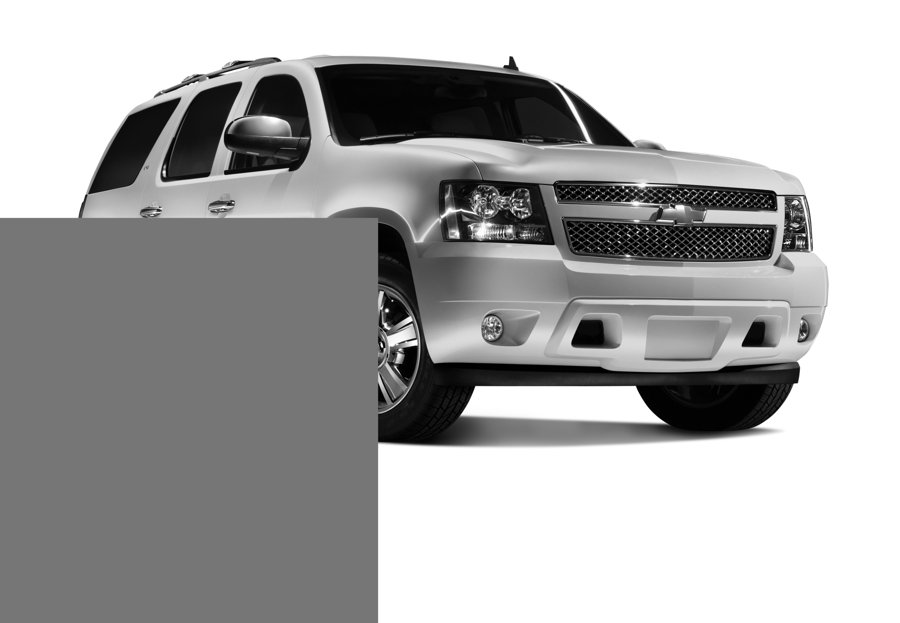
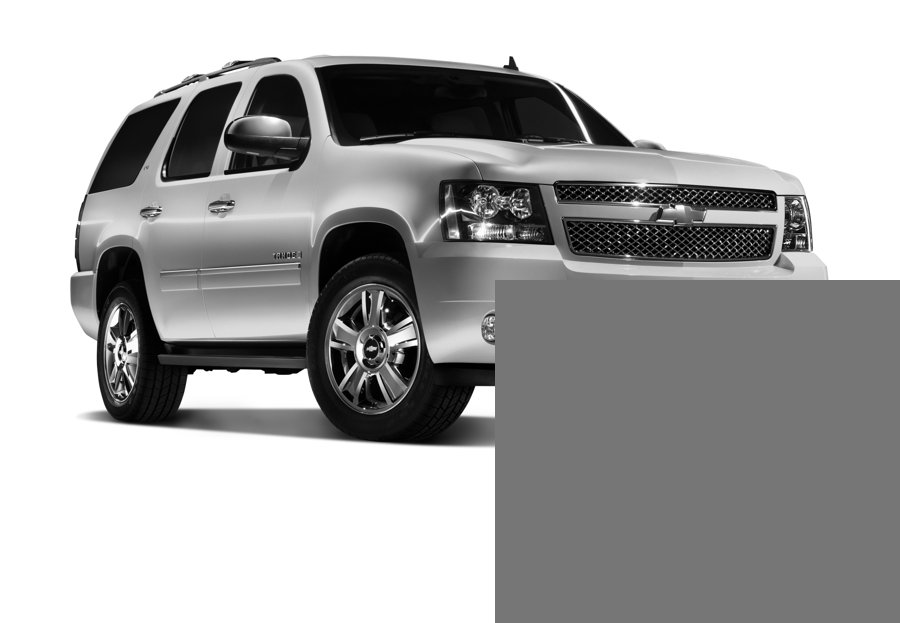
feat: fine-tuned detector shipped (IoU 0.954, mAP50 0.999); better occlusion demo samples incl. ambiguous; docs

diff --git a/frontend/src/components/Uploader.tsx b/frontend/src/components/Uploader.tsx
@@ -12,6 +12,7 @@ const SAMPLES = [
   { file: "sonata-hybrid.jpg", label: "Hybrid that looks like a petrol car" },
   { file: "night.jpg", label: "Taken at night" },
   { file: "hidden.jpg", label: "Partly hidden" },
+  { file: "ambiguous.jpg", label: "Hybrid or not? Rear hidden" },
   { file: "electric.jpg", label: "Electric car" },
   { file: "ambiguous-audi-s5.jpg", label: "Look-alike trim: S5 or A5?" },
   { file: "unknown-tata-nexon.jpg", label: "Indian car outside the 196 models" },
@@ -111,7 +112,7 @@ export default function Uploader({ onPick, onLive }: Props) {
 
       <div className="lg:col-span-2">
         <h2 className="font-display text-2xl font-semibold">No photo to hand? Try one of these</h2>
-        <ul className="mt-3 grid grid-cols-2 gap-3 sm:grid-cols-4 lg:grid-cols-7">
+        <ul className="mt-3 grid grid-cols-2 gap-3 sm:grid-cols-4">
           {SAMPLES.map((s) => (
             <li key={s.file}>
               <button

diff --git a/docs/design.md b/docs/design.md
@@ -94,7 +94,7 @@ flowchart LR
 | Choice | Why |
 |---|---|
 | **ConvNeXt-Small**, ImageNet-22k pretrained, fine-tuned at 384 px | Strong fine-grained transfer; 50 M parameters, 302 ms on 2 CPU threads after INT8. ConvNeXt-Tiny (28 M) was trained first: 94.18% vs 94.55% top-1, 88.3% vs 96.7% unknown cars caught |
-| **YOLO11s** COCO-pretrained (car/bus/truck) | Stanford images are single-vehicle, so a pretrained detector already localises well; no labelled crash data to fine-tune on |
+| **YOLO11s**, COCO-pretrained then fine-tuned on the Stanford **train** boxes (one class) | Mean IoU 0.886 -> 0.954, mAP@0.5 0.892 -> 0.999, mAP@0.5:0.95 0.825 -> 0.941 on the test split; end-to-end top-1 with detector crops 95.0% -> 95.7% (300-photo check). Trade-off: its tighter boxes can stop at an occluder, so with 30% of the vehicle hidden end-to-end accuracy was 73.3% vs 74.7% and 8 vs 6 of 70 hybrids/EVs were missed (within noise at this size, reported honestly) |
 | **Classical baseline**: HOG + HSV histogram + LBP + aspect ratio -> PCA(256) -> logistic regression | Required comparison; uses exactly the same feature code as the app |
 | **Temperature scaling** on validation | Raw softmax is over/under-confident; calibrated probabilities make thresholds meaningful |
 | **kNN embedding distance** for unknown cars | Softmax confidence stays high on unseen models (e.g. Indian cars); distance to known cars does not |
@@ -136,12 +136,16 @@ high-voltage miss / false-alarm rates, classical vs deep vs hybrid, ablation, mo
    answer ("Audi A5/S5 family") is reported when the year cannot be separated.
 3. **Rebadged twins**: *Dodge Sprinter Cargo Van 2009* taken for *Mercedes-Benz Sprinter Van 2012* (8) - the same van
    sold under two brands. A badge-level detail the network rarely sees at 384 px.
-4. **Degraded photos** (robustness table): strong blur drops top-1 to 40%, a 40 px vehicle to 53%, and hiding 45% of
+4. **Occlusion that hides the body style**: a Chevrolet Tahoe Hybrid with its upper rear hidden is taken for a
+   *Chevrolet Avalanche* (98%) and the high-voltage warning does not fire - the two share the same front end, and the
+   fine-tuned detector's box stops at the occluder. With the front hidden instead, the same SUV is still identified as
+   the Tahoe Hybrid (65%) with the warning on. This is the clearest reason the app always says "confirm with VIN or plate".
+5. **Degraded photos** (robustness table): strong blur drops top-1 to 40%, a 40 px vehicle to 53%, and hiding 45% of
    the vehicle to 66%. The quality checks flag these photos ("Blurry", "Low resolution") so the low confidence is
    explained rather than hidden.
-5. **Same body, different powertrain**: Hyundai Sonata Sedan vs Sonata Hybrid 2012. The summed high-voltage
+6. **Same body, different powertrain**: Hyundai Sonata Sedan vs Sonata Hybrid 2012. The summed high-voltage
    probability cuts missed hybrids/EVs from 4.3% (top-1 label) to 1.2%.
-6. **Out-of-distribution cars**: on 60 freely licensed Wikimedia Commons photos of 30 models the network never saw
+7. **Out-of-distribution cars**: on 60 freely licensed Wikimedia Commons photos of 30 models the network never saw
    (Indian models such as Swift, Nexon, Creta, Thar, Innova; post-2012 EVs such as Tesla Model 3/Y, Ioniq 5, ID.4),
    **96.7%** were answered "unknown" (58 of 60) while 8.3% of known test cars are wrongly flagged. The two misses are
    look-alikes: Mahindra Thar taken for Jeep Wrangler (the Thar is styled on it) and Renault Kwid for Nissan Juke.

diff --git a/frontend/public/samples/CREDITS.md b/frontend/public/samples/CREDITS.md
@@ -7,7 +7,13 @@
 
 Both come from Wikimedia Commons.
 
-## Older samples: source not recorded
+## Samples from the Stanford Cars test split
 
-`clear.jpg`, `electric.jpg`, `hidden.jpg`, `night.jpg` and `sonata-hybrid.jpg` were added earlier without a record of where they
-came from. Whoever added them should fill this in, or replace them, before the repository is shown publicly.
+`clear.jpg` (BMW M3 Coupe 2012), `sonata-hybrid.jpg` (Hyundai Sonata Hybrid Sedan 2012), `electric.jpg` (Tesla Model S
+Sedan 2012), `night.jpg` (Audi S4 Sedan 2012), `hidden.jpg` (Chevrolet Tahoe Hybrid SUV 2012) and `ambiguous.jpg`
+(Chevrolet Silverado 1500 Hybrid Crew Cab 2012) are images from the **test split of the Stanford Cars dataset**
+(J. Krause, M. Stark, J. Deng, L. Fei-Fei, "3D Object Representations for Fine-Grained Categorization", ICCV Workshops
+2013), the dataset this problem statement prescribes. The dataset's images were collected from the web for
+non-commercial research use; they are shown here only to demonstrate the model on its own benchmark.
+Changes: resized to 900 px; `night.jpg` darkened to 22% brightness; `hidden.jpg` and `ambiguous.jpg` have a grey block
+painted over part of the vehicle to simulate occlusion.

diff --git a/eval_P5_T50.md b/eval_P5_T50.md
@@ -14,22 +14,24 @@ Test set: official Stanford Cars test split (8041 images, never used for trainin
 ## 2. Object localization (IoU)
 | Method | Mean IoU | IoU >= 0.5 |
 |---|---|---|
-| YOLO11s (deep) | 0.886 | 92.81% |
+| yolo11s (fine-tuned on Stanford Cars train boxes) | 0.954 | 99.85% |
+| yolo11s (COCO pretrained, car/bus/truck) | 0.886 | 92.81% |
 | Largest edge contour (classical) | 0.639 | 76.20% |
 (n = 8041 / 2000 random test images)
 
 ## 3. Object detection (mAP)
 | Metric | Value |
 |---|---|
-| mAP@0.5 | 0.892 |
-| mAP@0.5:0.95 | 0.825 |
+| mAP@0.5 | 0.999 |
+| mAP@0.5:0.95 | 0.941 |
+| mAP@0.5 / @0.5:0.95 before fine-tuning (COCO-pretrained) | 0.892 / 0.825 |
 
 ## 4. Model efficiency
 | Model | Size | CPU latency (2 threads) | Top-1 (subset) |
 |---|---|---|---|
 | Classifier FP32 (ONNX) | 189.4 MB | 739 ms | 93.67% |
 | Classifier INT8 (dynamic quantization) | 54.3 MB | 302 ms | 93.67% |
-| YOLO11s detector | - | 39 ms (0) | - |
+| YOLO11s detector | - | 26 ms (0) | - |
 Parameters: 49.6 M. Subset = first 300 test images.
 
 ## 5. Robustness (top-1 under degraded conditions)

diff --git a/README.md b/README.md
@@ -73,7 +73,7 @@ Official Stanford Cars test split: 8,041 images, never used for training or tuni
 | | |
 |---|---|
 | **Top-1 / top-5 accuracy** | **94.55% / 99.27%** (ConvNeXt-Small, 384 px, detector crop) |
-| **Finding the vehicle** (YOLO11s) | mean IoU **0.886**, mAP@0.5 **0.892**, mAP@0.5:0.95 0.825 |
+| **Finding the vehicle** (YOLO11s fine-tuned on Stanford train boxes) | mean IoU **0.954**, mAP@0.5 **0.999**, mAP@0.5:0.95 **0.941** (COCO-pretrained: 0.886 / 0.892 / 0.825) |
 | **Classical vs deep vs hybrid** | 13.7% vs 91.7% vs **94.6%** top-1 |
 | **Missed hybrids and EVs** | **1.15%** with the summed rule vs 4.32% trusting the top answer, with 0.69% false alarms |
 | **Unseen car models** (30 models, 60 photos) | **96.7%** answered "unknown"; 8.3% of known cars wrongly flagged |

diff --git a/docs/BUILD_PLAN.md b/docs/BUILD_PLAN.md
@@ -37,7 +37,7 @@ back. Work top to bottom: section 2 is the critical path to a valid submission.
 
 ## 2. Critical path to submission (must do, in order)
 
-### 2.0 Finish the detector fine-tuning (started Fri 22:07, ~40 min)
+### 2.0 Finish the detector fine-tuning (DONE Fri 23:10 - fine-tuned detector shipped; COCO one backed up in `models_run1/`)
 `training/finetune_detector.py` fine-tunes YOLO11s on the Stanford **train** boxes (one class "vehicle"); log:
 `training\finetune_detector_models.log`. When it prints `DONE` there are `models\yolo11s_cars.pt` and `.onnx`.
 1. Back up the current (COCO-pretrained) detector: `copy models\yolo11s.onnx models_run1\yolo11s_coco.onnx`
